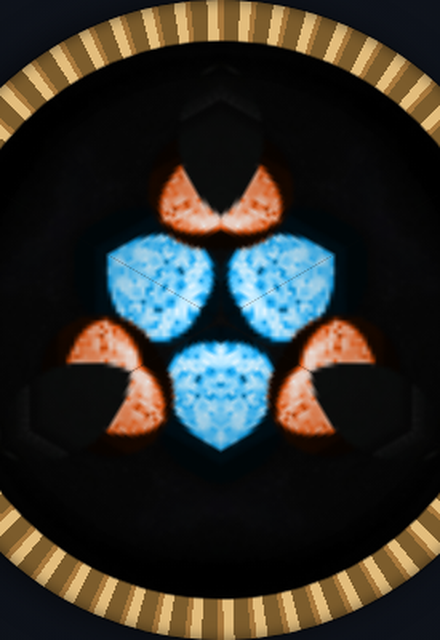
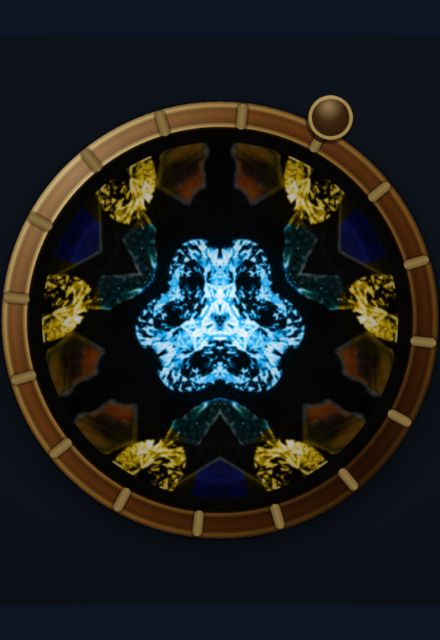
Kaleidoscope: the ring turns by the angle your hand sweeps, and a card that matches the piece
Her report was that the ring drag is terrible on every machine, and that the
first quarter turn works before it goes off the rails. Both halves were exactly
right and the second explains the first.

It was turn += (clientX - lastX) * 0.012 -- horizontal travel and nothing else.
Grab the knob at twelve o'clock and pull right and it obeys, but the knob is
then carrying round toward three, and to keep following it your hand must move
DOWN, which has no sideways component, so the ring stops dead; round the bottom
your hand is going LEFT and it turns backwards under you. Measured, sweeping the
pointer in a circle about the ring: hand at 30 deg gave 58, at 90 gave 116, at
120 gave 100, at 180 gave 0, and a full circle of the hand left the ring where it
started. 'Every machine' was the clue -- the gesture the code listened for and
the gesture a bezel asks for only agree for about ninety degrees, so no device
could have made it better or worse.

It now reads the angle swept about the ring's centre, 1:1. The unwrap across the
+/-pi seam is load-bearing or it would snap a whole turn every lap, and the drag
is followed but not applied inside a tenth of the radius, where a hand that has
barely moved has swept a huge angle and would spin the ring off a twitch.
Verified at every 30 degrees of a full circle and half a circle back, on desktop
and with touch emulation at 600 and 390 wide: 1:1 throughout.

The card was still the old look -- flat gold stripes and a sparse pattern, from
[…]

diff --git a/kaleidoscope/index.html b/kaleidoscope/index.html
@@ -658,11 +658,44 @@
   function drawAll(){ drawTray(); drawScope(); }
 
   // ---------- turning the scope ----------
-  let scopeDragging=false, lastX=0;
-  scopeWrap.addEventListener('pointerdown', e=>{ scopeDragging=true; lastX=e.clientX; scopeWrap.setPointerCapture(e.pointerId); });
+  // This was a SIDEWAYS SWIPE, not a turn: `turn += (clientX - lastX) * 0.012`,
+  // which reads horizontal travel and nothing else. Grab the knob at the top,
+  // pull right, and it obeys -- but the knob is now carrying round toward three
+  // o'clock, and to keep following it your hand has to move DOWN, which has no
+  // sideways component at all, so the ring stops dead. Carry on round the bottom
+  // and your hand is travelling LEFT, so it turns backwards under you. That is
+  // the whole of "the first quarter turn works and then it goes off the rails",
+  // and it was never a machine's fault: the gesture the code listened for and the
+  // gesture a bezel asks for only agree for about ninety degrees.
+  //
+  // A real bezel turns by the ANGLE your hand has moved around its centre, so
+  // that is what is measured now -- grab it anywhere, it stays under your finger
+  // all the way round, as many turns as you like, either direction. The unwrap is
+  // the load-bearing part: atan2 jumps from +pi to -pi crossing due west, and
+  // without folding that back the ring would snap a full turn every lap.
+  let scopeDragging=false, lastAng=0;
+  function ringAngle(e){
+    const r = scopeWrap.getBoundingClientRect();
+    return Math.atan2(e.clientY - (r.top + r.height/2), e.clientX - (r.left + r.width/2));
+  }
+  // Near the middle, a hand that has barely moved has swept a huge angle, so the
+  // ring would spin wildly off a twitch. Inside a tenth of the radius the angle
+  // is followed but not applied -- pick the drag up again further out and it
+  // carries on from wherever the hand actually is, with no jump.
+  function ringGrip(e){
+    const r = scopeWrap.getBoundingClientRect();
+    return Math.hypot(e.clientX - (r.left + r.width/2), e.clientY - (r.top + r.height/2)) > r.width * 0.1;
+  }
+  scopeWrap.addEventListener('pointerdown', e=>{ scopeDragging=true; lastAng=ringAngle(e); scopeWrap.setPointerCapture(e.pointerId); });
   scopeWrap.addEventListener('pointermove', e=>{
     if(!scopeDragging) return;
-    turn += (e.clientX-lastX)*0.012; lastX=e.clientX;
+    const a = ringAngle(e);
+    let d = a - lastAng;
+    if(d >  Math.PI) d -= Math.PI*2;
+    if(d < -Math.PI) d += Math.PI*2;
+    lastAng = a;
+    if(!ringGrip(e)) return;
+    turn += d;
     updateRing();
     drawScope();
   });

diff --git a/CLAUDE.md b/CLAUDE.md
@@ -262,7 +262,25 @@ came out**. Its knob glowed until a visitor first touched it, and the comment in
 words that it "nudges a first-time visitor toward the control that actually changes the pattern" — which is
 the exact thing the *Exploring is the point* rule below forbids. It predated the rule. Don't put it back. |
 | `fireflies/index.html` | ✅ |  | A field at dusk where you place fireflies in the grass; real dusk-to-night sky, with bats about |
-| `kaleidoscope/index.html` | ✅ |  | A tray of real photographed small objects — glass, gems, gears, beads — mirrored live. Place them, then turn the ring<br>Objects re-cropped and the desktop controls spread Aug 2026. The turning ring (top) is **drawn, not an image** — brass-bound wood with a grab knob, dimmed so it doesn't fight the mirrored view. **The tray ring (bottom) is deliberately left brighter than the scope ring** — her call: the bright one pulls the eye first and says *drop things here*, then you look up and the dim ring's view makes sense. Don't 'fix' the mismatch; it is the wordless instruction. **Awaiting her verdict**.<br>**The phone case was
+| `kaleidoscope/index.html` | ✅ |  | A tray of real photographed small objects — glass, gems, gears, beads — mirrored live. Place them, then turn the ring<br>Objects re-cropped and the desktop controls spread Aug 2026. The turning ring (top) is **drawn, not an image** — brass-bound wood with a grab knob, dimmed so it doesn't fight the mirrored view. **The tray ring (bottom) is deliberately left brighter than the scope ring** — her call: the bright one pulls the eye first and says *drop things here*, then you look up and the dim ring's view makes sense. Don't 'fix' the mismatch; it is the wordless instruction. **Awaiting her verdict**.<br>**The ring drag was a sideways swipe, not a turn.** Aug 2026, her
+report: *"the ring drag is.. terrible. on every machine. the first quarter turn or so works, then it
+goes off the rails."* It was `turn += (clientX - lastX) * 0.012` — horizontal travel and nothing
+else. Grab the knob at twelve o'clock, pull right, and it obeys; but the knob is now carrying round
+toward three, and to keep following it your hand has to move DOWN, which has no sideways component
+at all, so the ring stops dead. Round the bottom your hand is going LEFT and it turns backwards
+under you. Measured before the fix, sweeping the pointer in a circle round the ring: hand at 30°
+gave 58°, at 90° gave 116°, at 120° gave 100°, at 180° gave **0**, and a full circle of the hand
+left the ring exactly where it started. Her "every machine" was the clue — the gesture the code
+listened for and the gesture a bezel asks for only agree for about ninety degrees, and no device
+could have made that better or worse. It reads the ANGLE swept about the ring's centre now, 1:1,
+unwrapped across the ±π seam (without that it would snap a whole turn every lap) and ignored inside
+a tenth of the radius (near the middle a hand that has barely moved has swept a huge angle, and it
+would spin off a twitch). Verified 1:1 at every 30° of a full circle and back again, on desktop and
+on touch.<br>**The card was still the old look** — flat gold stripes and a sparse pattern, from
+before the ring was redrawn as brass-bound wood with a grab knob and the objects re-cropped. Reshot
+Aug 2026 with a spread of pieces on the tray at warm and cool hues, the tray and controls hidden so
+only the scope is in frame, and the brass scaled to the card's full width by **measuring** the ring's
+painted extent in the shot rather than trusting a ratio. Same 440x640 as the rest.<br>**The phone case was
 broken and is now a drawer.** Four rows of pieces under a 400px scope came to 380px of controls on a screen
 844 tall that does not scroll, so both sliders and every mirror button sat below the bottom edge and could
 not be reached at all — worse than the 'bottom row under the fold' it was first reported as. On a phone the
